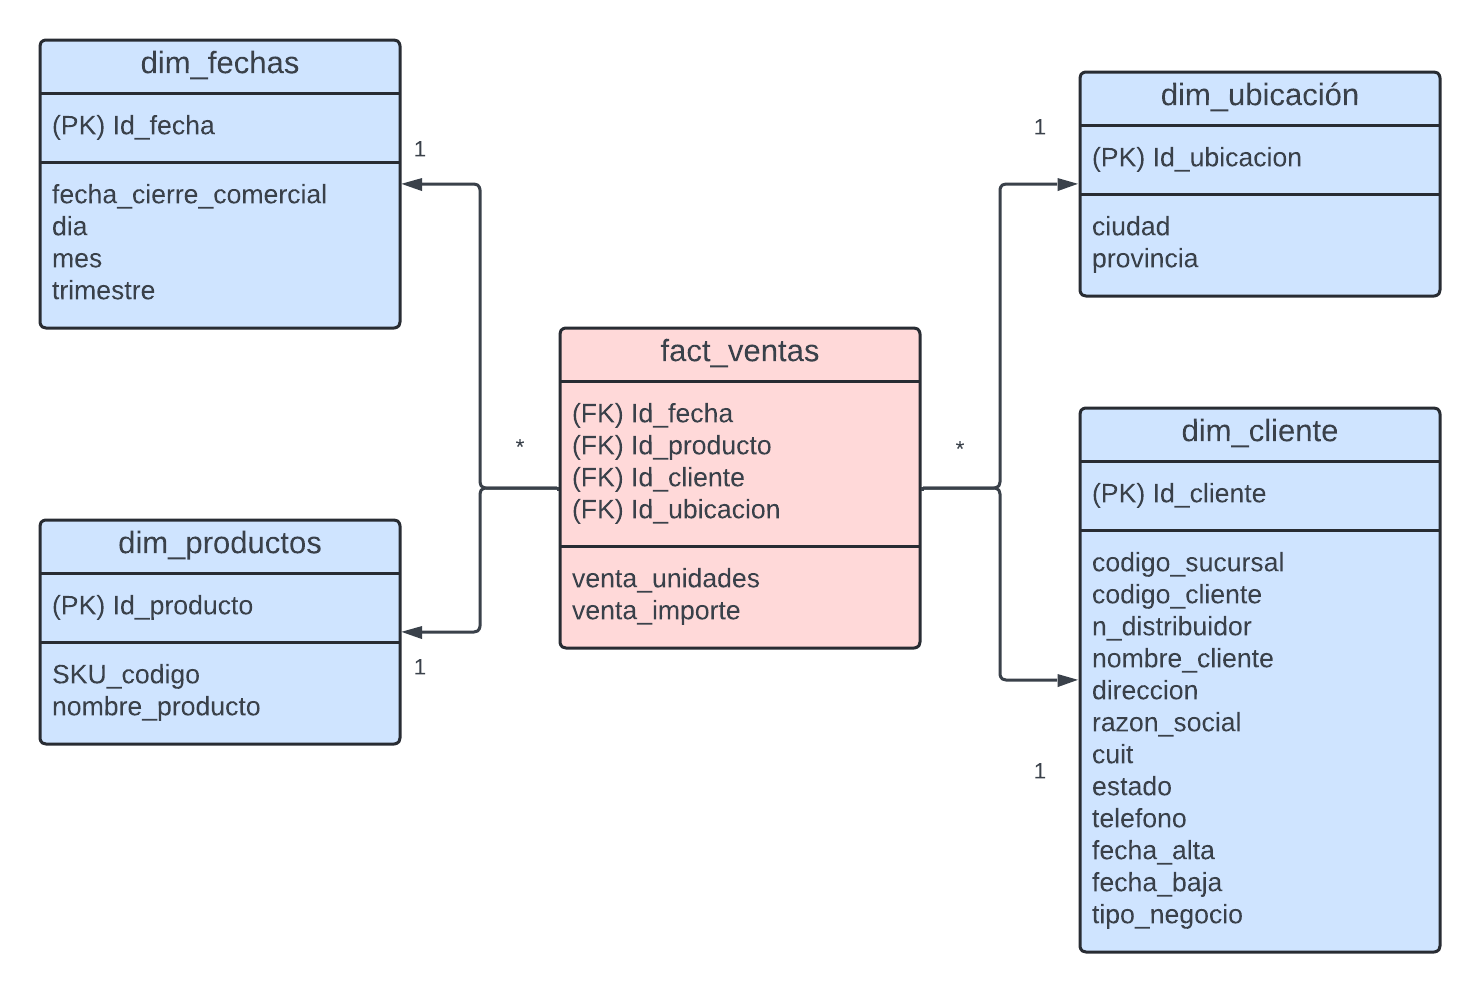
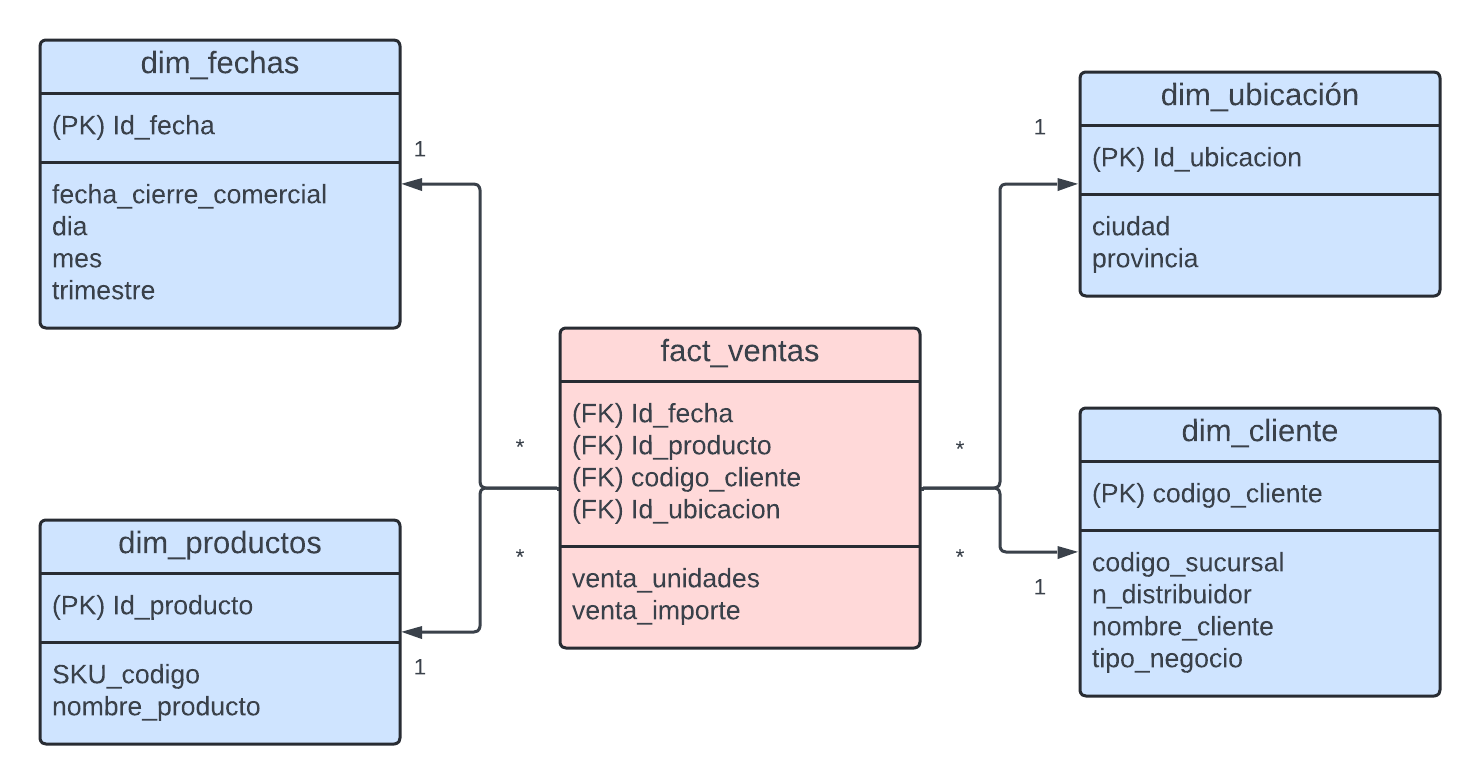
Cambiando la dimensión cliente

diff --git a/modelado_informacion/crear_dimensiones_2.py b/modelado_informacion/crear_dimensiones_2.py
@@ -30,24 +30,7 @@ if __name__ == '__main__':
         FROM `{ID_proyecto}.datos_crudos.cliente` as cliente;
     """
 
-    generar_dim_cliente_temp = f"""
-        SELECT DISTINCT
-            cliente.codigo_sucursal,
-            cliente.codigo_cliente AS Codigo_cliente,
-            cliente.n_distribuidor,
-            cliente.nombre_cliente,
-            cliente.direccion,
-            cliente.razon_social,
-            cliente.cuit,
-            cliente.estado,
-            cliente.telefono,
-            cliente.fecha_alta,
-            cliente.fecha_baja,
-            cliente.tipo_negocio
-        FROM `{ID_proyecto}.datos_crudos.cliente` as cliente;
-    """
-
-    #Queries para crear tablas finales con IDs incrementales
+    #Queries para crear tablas finales con IDs subrogados
     generar_dim_fechas = f"""
         SELECT
             ROW_NUMBER() OVER() AS id_fecha,
@@ -77,28 +60,19 @@ if __name__ == '__main__':
         ORDER BY id_ubicacion;
     """
 
-    generar_dim_cliente = f"""
-        SELECT
-            ROW_NUMBER() OVER() AS id_cliente,
-            codigo_sucursal,
-            Codigo_cliente,
-            n_distribuidor,
-            nombre_cliente,
-            direccion,
-            razon_social,
-            cuit,
-            estado,
-            telefono,
-            fecha_alta,
-            fecha_baja,
-            tipo_negocio
-        FROM `{ID_proyecto}.{datawarehouse_nombre}.temp_cliente`
-        ORDER BY id_cliente;
+    generar_dim_cliente= f"""
+        SELECT DISTINCT
+            cliente.codigo_cliente,
+            cliente.codigo_sucursal,
+            cliente.n_distribuidor,
+            cliente.nombre_cliente,
+            cliente.tipo_negocio
+        FROM `{ID_proyecto}.datos_crudos.cliente` as cliente;
     """
 
     #Genero listas para asociar las tablas con las queriesque las generan
-    lista_tablas_temp = ['temp_fechas', 'temp_producto', 'temp_ubicacion', 'temp_cliente']
-    lista_querys_temp = [generar_dim_fechas_temp, generar_dim_producto_temp, generar_dim_ubicacion_temp, generar_dim_cliente_temp]
+    lista_tablas_temp = ['temp_fechas', 'temp_producto', 'temp_ubicacion']
+    lista_querys_temp = [generar_dim_fechas_temp, generar_dim_producto_temp, generar_dim_ubicacion_temp]
 
     lista_tablas_final = ['dim_fechas', 'dim_producto', 'dim_ubicacion', 'dim_cliente']
     lista_querys_final = [generar_dim_fechas, generar_dim_producto, generar_dim_ubicacion, generar_dim_cliente]
@@ -124,7 +98,10 @@ if __name__ == '__main__':
             metodo_escritura="WRITE_TRUNCATE"
         )
 
-        #Luego de crear la tabla, elimino la tabla temporal correspondiente
-        TEMP_TABLE_ID = f"{ID_proyecto}.{datawarehouse_nombre}.temp_{tabla.split('_')[1]}"
-        client.delete_table(TEMP_TABLE_ID, not_found_ok=True)
-        print(f"Tabla temporal {TEMP_TABLE_ID} eliminada.")  
+        #Cliente no tiene tabla temporal!
+        if tabla != "dim_cliente":
+        
+            #Luego de crear la tabla, elimino la tabla temporal correspondiente
+            TEMP_TABLE_ID = f"{ID_proyecto}.{datawarehouse_nombre}.temp_{tabla.split('_')[1]}"
+            client.delete_table(TEMP_TABLE_ID, not_found_ok=True)
+            print(f"Tabla temporal {TEMP_TABLE_ID} eliminada.")  

diff --git a/modelado_informacion/cargar_datos_crudos_1.py b/modelado_informacion/cargar_datos_crudos_1.py
@@ -58,9 +58,6 @@ esquema_tabla_cliente = [
     bigquery.SchemaField("n_distribuidor", "INTEGER"),
 ]
 
-#Hago la conexión con el cliente, importante pasarle el ID del proyecto como argumento
-client = bigquery.Client("usm-infra-grupo8-401213")
-
 if __name__ == '__main__':
     ID_proyecto = "usm-infra-grupo8-401213"
     ruta_credenciales= os.path.join(os.getcwd(),"credenciales.json") #Necesario tener una clave propia!
@@ -81,7 +78,7 @@ if __name__ == '__main__':
                 for table in lista_tablas:
                     ID_tabla = f"{ID_proyecto}.datos_crudos.{table}"
                     GCS_URI = f"{ruta_base}/distribuidor_{distribuidor}/{table}/{fecha_cierre_str}.csv"
-                    cargar_datos_de_gcs_a_bigquery(GCS_URI, ID_tabla, locals()[f"esquema_tabla_{table}"])
+                    cargar_datos_de_gcs_a_bigquery(client,GCS_URI, ID_tabla, locals()[f"esquema_tabla_{table}"])
             except BadRequest as err:
                 print(err)
             except NotFound as err:

diff --git a/modelado_informacion/crear_fact_table_3.py b/modelado_informacion/crear_fact_table_3.py
@@ -27,7 +27,7 @@ if __name__ == '__main__':
 
     generar_fact_ventas= f"""
     SELECT
-        dim_cliente.id_cliente,
+        dim_cliente.codigo_cliente,
         dim_fechas.id_fecha,
         dim_producto.id_producto,
         dim_ubicacion.id_ubicacion,
@@ -41,7 +41,7 @@ if __name__ == '__main__':
     JOIN `{ID_proyecto}.{datawarehouse_nombre}.dim_fechas` AS dim_fechas
         ON fact_ventas_temp.fecha_cierre_comercial = dim_fechas.fecha_cierre_comercial
     JOIN `{ID_proyecto}.{datawarehouse_nombre}.dim_cliente` AS dim_cliente
-        ON fact_ventas_temp.codigo_sucursal = dim_cliente.codigo_sucursal AND fact_ventas_temp.codigo_cliente = dim_cliente.Codigo_cliente
+        ON fact_ventas_temp.codigo_cliente = dim_cliente.codigo_cliente
     """
 
     #Creo la tabla temporal de la cual se apoyará la tabla de hechos de ventas

diff --git a/utils/funciones_gcp.py b/utils/funciones_gcp.py
@@ -33,7 +33,7 @@ def crear_tabla(client, ID_tabla_a_crear, query, metodo_escritura):
     except Exception as err:
         print(f"Error al crear la tabla {ID_tabla_a_crear}: {err}")
         
-def cargar_datos_de_gcs_a_bigquery(GCS_URI, ID_tabla, esquema_tabla):
+def cargar_datos_de_gcs_a_bigquery(client,GCS_URI, ID_tabla, esquema_tabla):
     """
     Esta función carga datos de un bucket de Google Cloud Storage (GCS) a una tabla específica de BigQuery.
 
